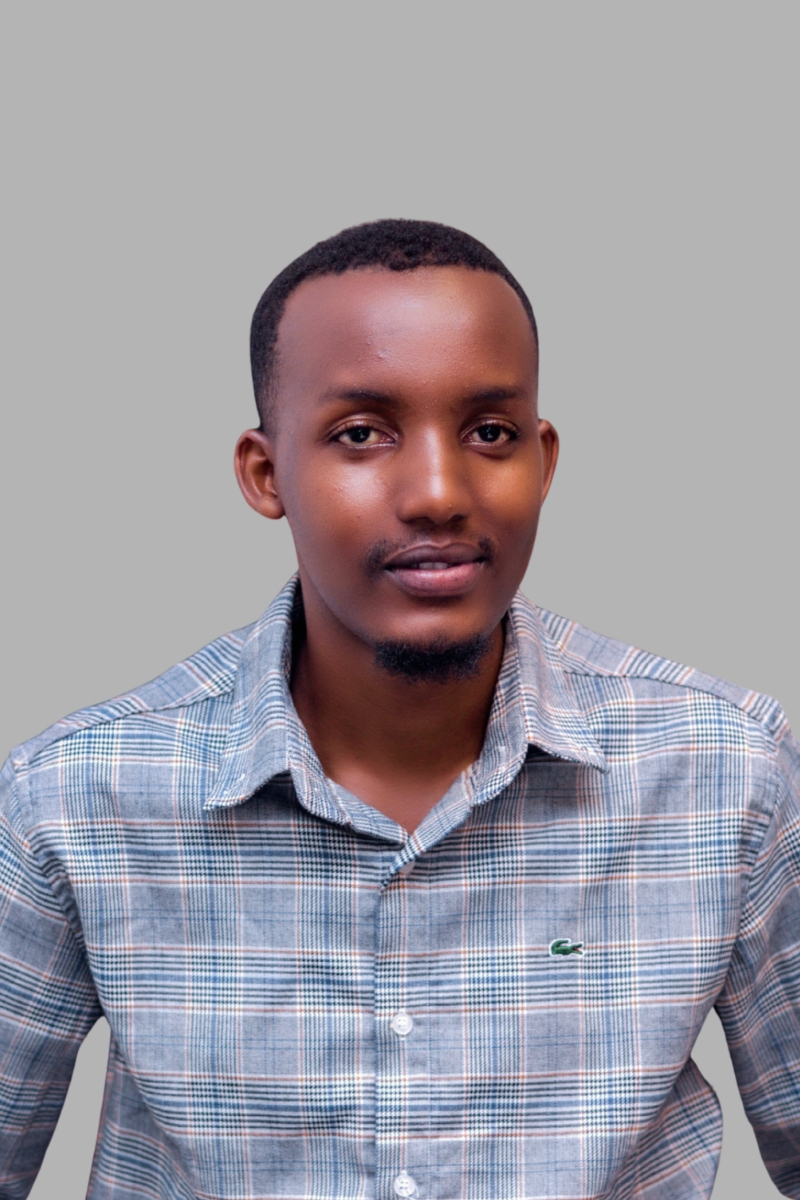
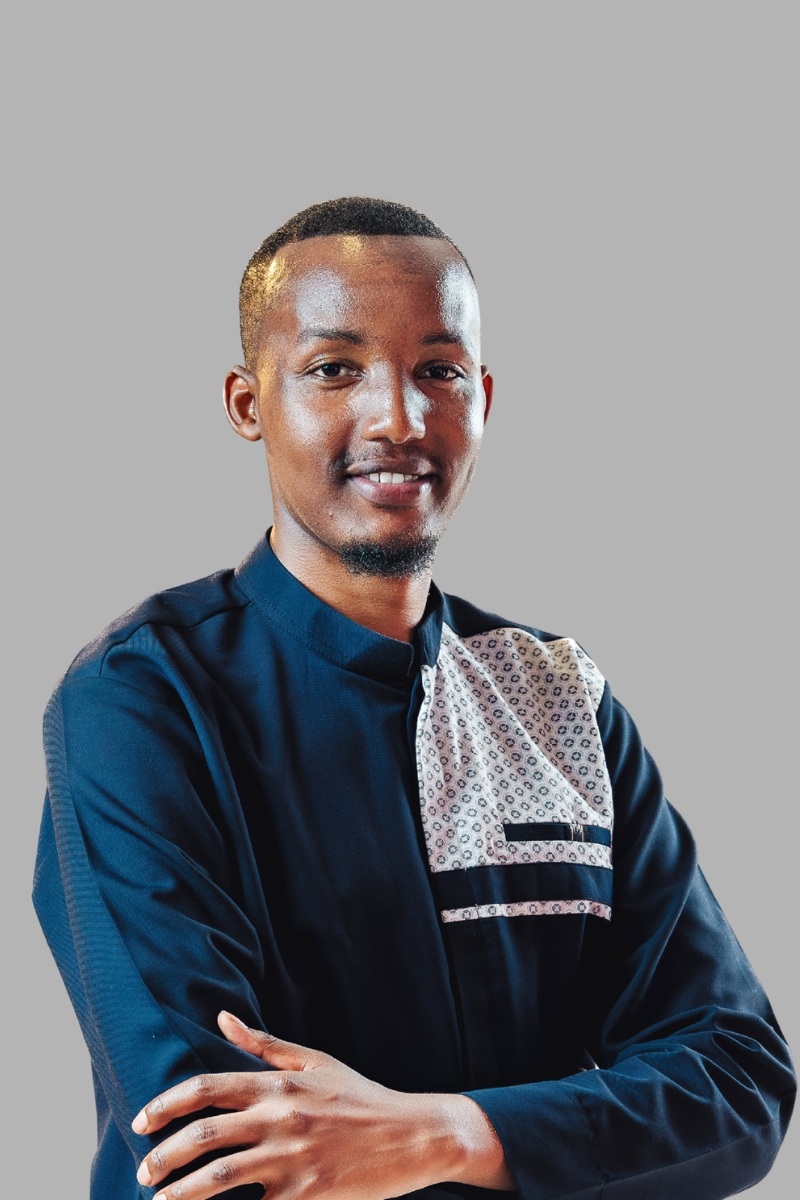
Version 1.5

diff --git a/src/constants/site.ts b/src/constants/site.ts
@@ -14,7 +14,7 @@ export const SITE = {
     favicon: '/favicon.svg',
   },
   social: {
-    linkedin: 'https://linkedin.com',
+    linkedin: 'https://www.linkedin.com/company/rwoga-family-association/about/?viewAsMember=true',
     instagram: 'https://www.instagram.com/rwo.ga/',
   },
 } as const
